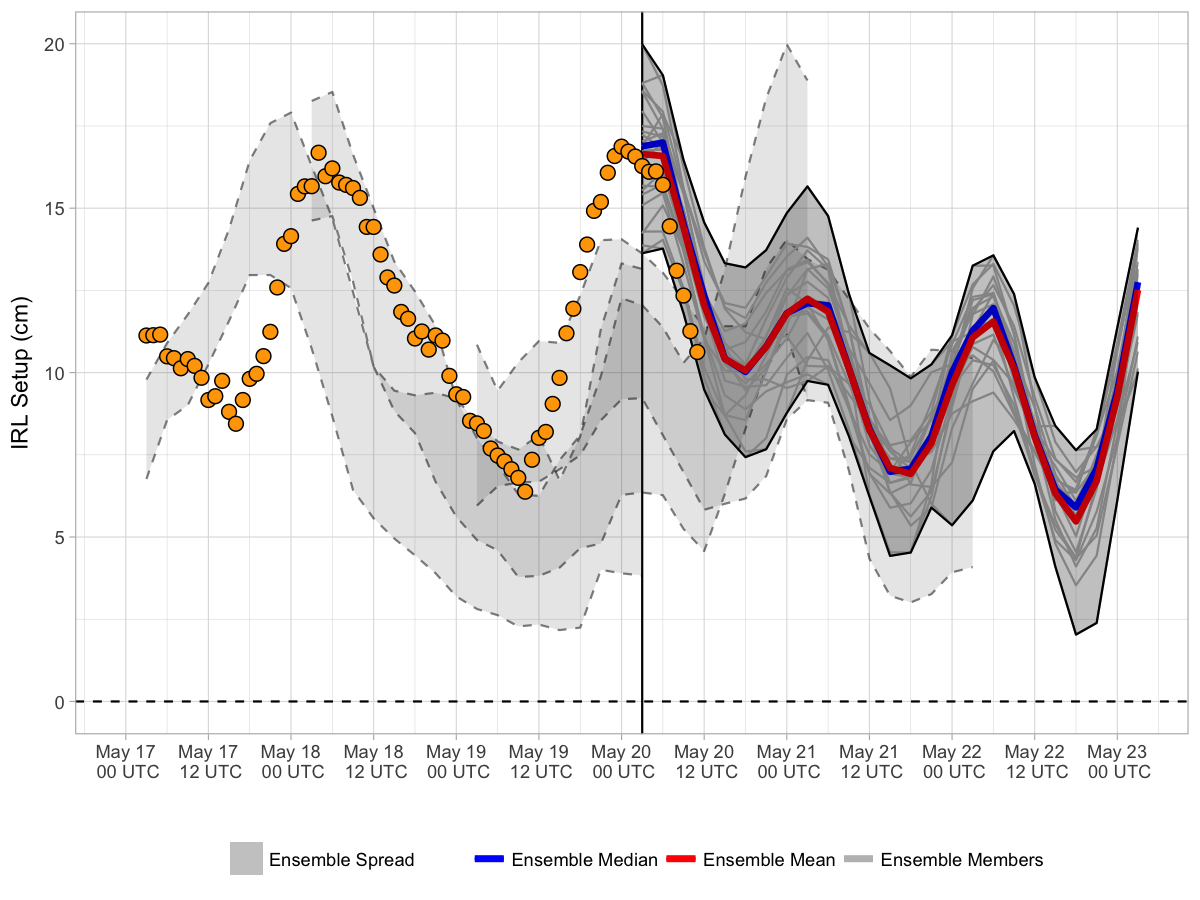
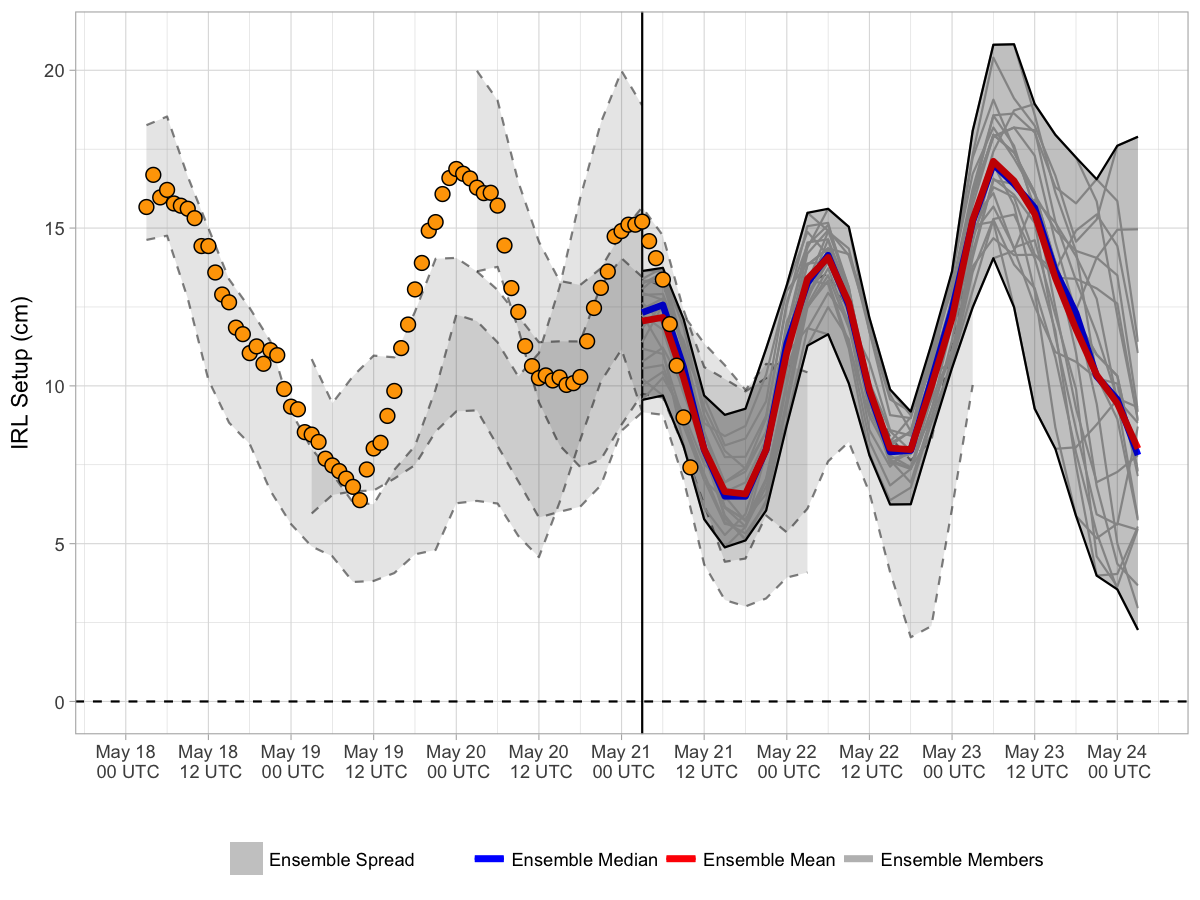
20170521 forecast update

diff --git a/docs/index.md b/docs/index.md
@@ -3,7 +3,7 @@ Current Forecast
 
 [![](img/raw_setup.png)](https://bhlmn.github.io/IRLSetup/img/raw_setup.png)
 
-> Forecast valid 2017-05-20 08:11:33.
+> Forecast valid 2017-05-21 07:05:35.
 
 Explanation
 -----------
@@ -15,7 +15,7 @@ water elevation in the northern IRL (near Titusville), and negative
 setup indicates the increase elevation in the southern IRL (near
 Sebastian). The x-axis displays the date and time in UTC. The solid
 vertical line represents the beginning of the most recent ensemble
-forecast (currently 2017-05-19 18:00:00). For this most recent forecast,
+forecast (currently 2017-05-20 18:00:00). For this most recent forecast,
 the ensemble spread (grey shading) is bound by solid black lines, with
 individual members represented by faint grey lines. The ensemble mean
 and median for this are represented by the red and blue curves,
